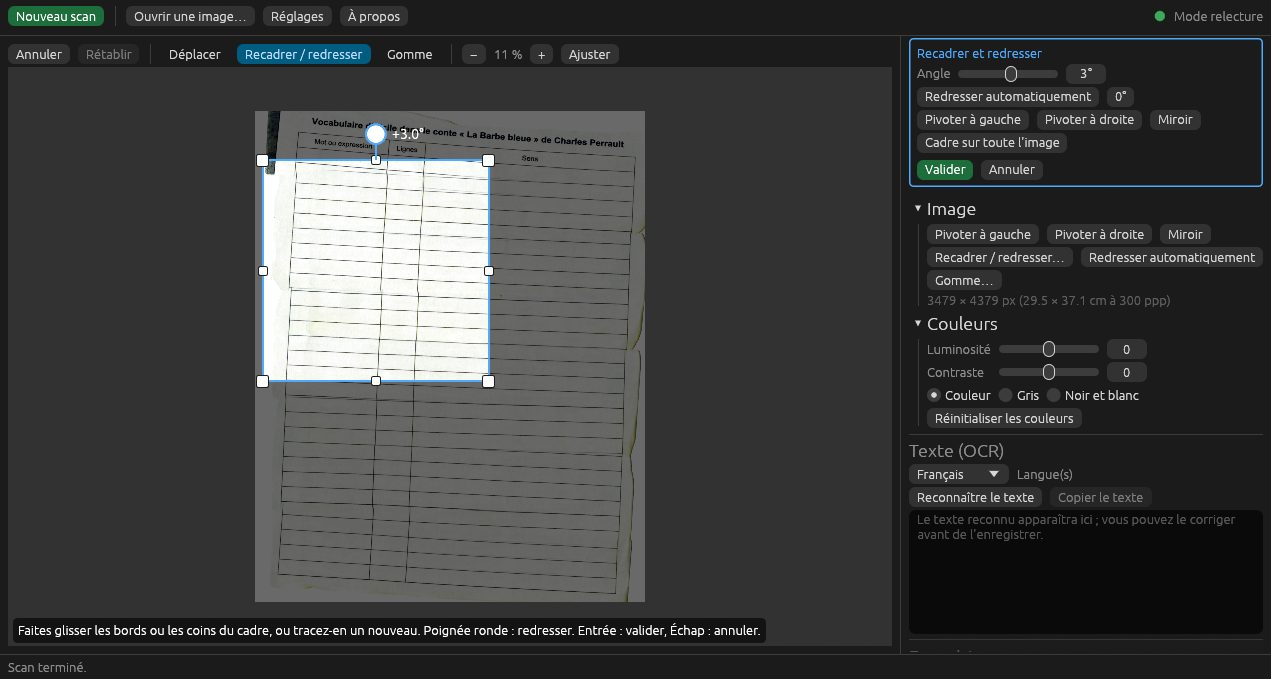
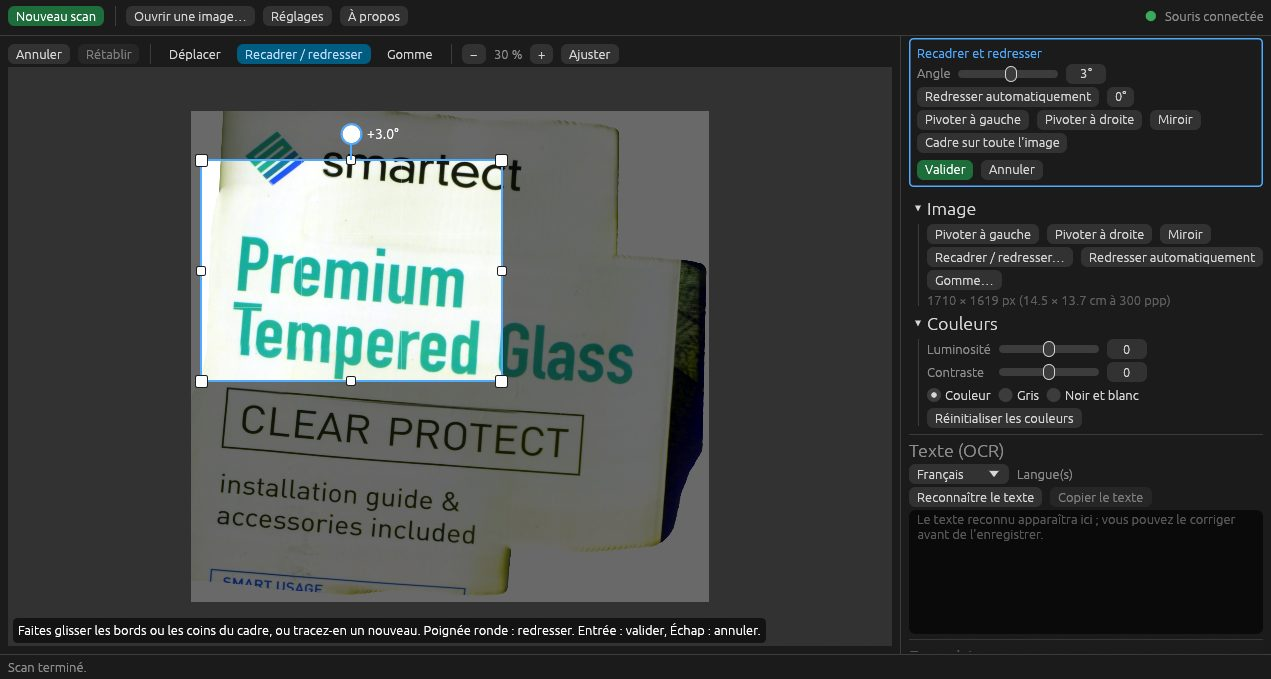
Page de documentation : nouvelles captures

diff --git a/docs/index.html b/docs/index.html
@@ -61,8 +61,8 @@
   </div>
 
   <figure>
-    <img src="img/scan.jpg" alt="Scan en cours : la page se construit pendant que la souris se déplace">
-    <figcaption>La page se construit pendant que vous déplacez la souris.</figcaption>
+    <img src="img/scan.jpg" alt="Scan en cours : l'image se construit pendant que la souris se déplace">
+    <figcaption>L'image se construit pendant que vous déplacez la souris.</figcaption>
   </figure>
 
   <h2>Fonctions</h2>
